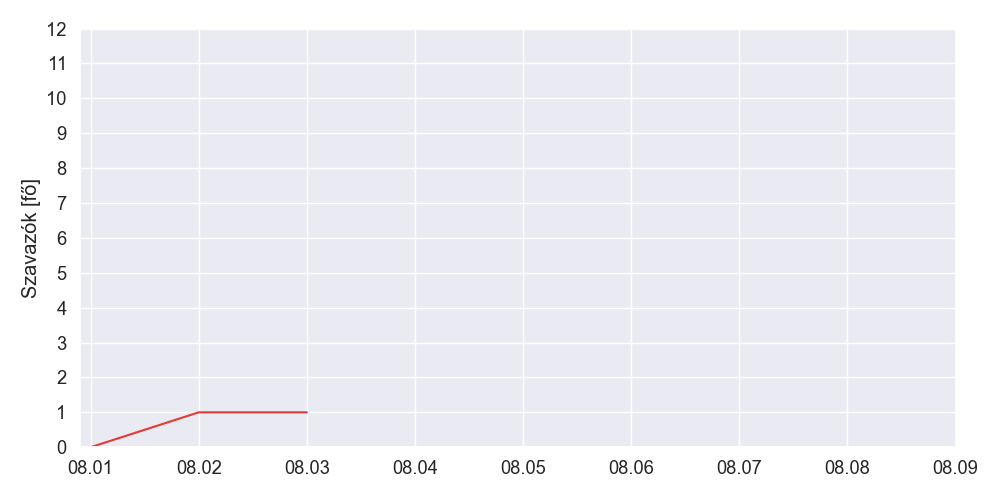
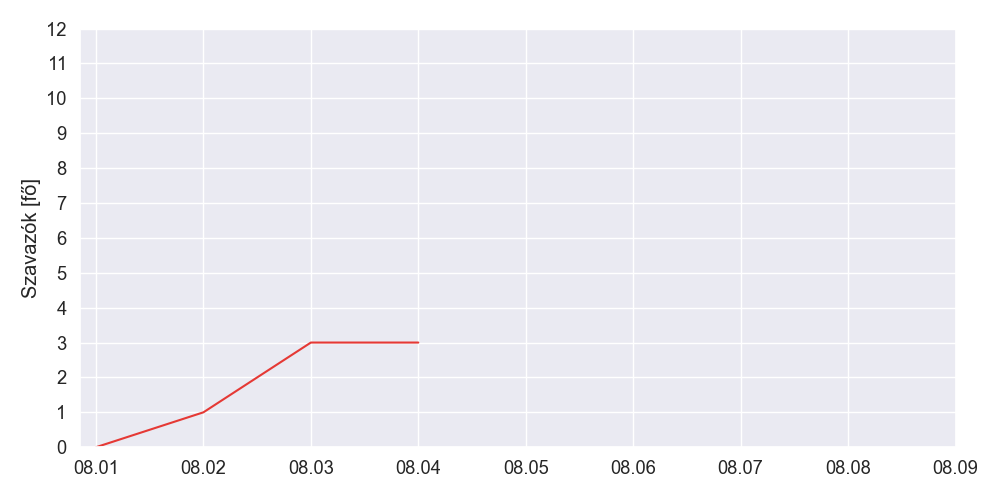
Sync from private repo

diff --git a/poll-progress.html b/poll-progress.html
@@ -35,7 +35,7 @@
         }
         .progress-bar {
             height: 100%;
-            width: 8.333333333333332%;
+            width: 25.0%;
             background-color: #e53935;
         }
         .progress-text {
@@ -56,7 +56,7 @@
     </style>
 </head>
 <body>
-    <h1>Részvételi arány - 2025.08.03</h1>
+    <h1>Részvételi arány - 2025.08.04</h1>
 
     <div class="chart">
         <img src="img/szavazatok.png" alt="Cumulative Voters Chart">
@@ -64,7 +64,7 @@
 
     <div class="progress-container">
         <div class="progress-bar"></div>
-        <div class="progress-text">1 / 12 (8%)</div>
+        <div class="progress-text">3 / 12 (25%)</div>
     </div>
 </body>
 </html>
